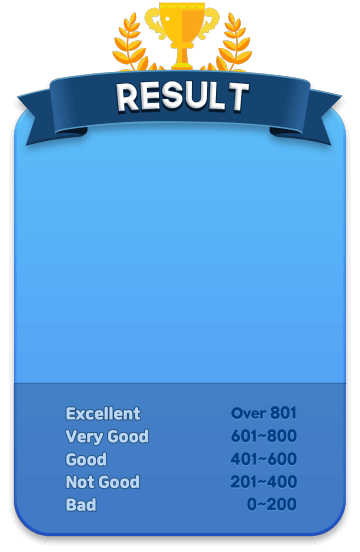
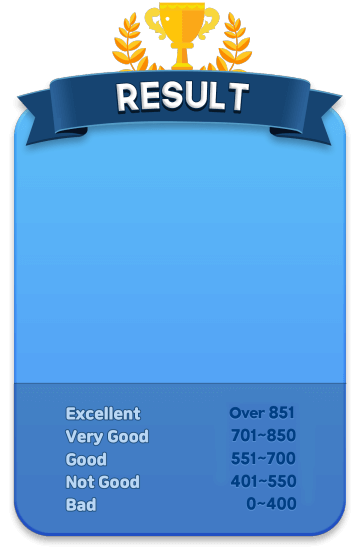
게임 결과 점수체계 수정한다
#BRAIN-42

Changed region(s): [[0.6417, 0.7391, 0.825, 0.9239]]

diff --git a/src/app/com/omnicns/omnifit/game/five-fan/obj/game/ResultPopup.ts b/src/app/com/omnicns/omnifit/game/five-fan/obj/game/ResultPopup.ts
@@ -8,6 +8,7 @@ import {AWResourceManager} from '../../AWResourceManager';
 import {AWStageManager} from '../../AWStageManager';
 import {AWStage} from '../../stage/AWStage';
 import {AWObj} from '../AWObj';
+import {Info} from '../../info/Info';
 
 export interface UserResult {
   uuid: string;
@@ -109,20 +110,24 @@ export class ResultPopup extends AWObj {
     }
     context.drawImage(medalImg, popup_x + 158, popup_y + 224);
 
+    // VeryGood = 850
+    // Good = 700
+    // NotGood = 550
+    // Bad = 400
     // 점수에 따라 멘트와 등급 표시
-    if (localSum >= 0 && localSum <= 200) {
+    if (localSum >= 0 && localSum <= Info.BAD) {
       context.drawImage(this.ic_scoretext_badImg, popup_x + 40, popup_y + 265);
       context.drawImage(this.ic_scoretext_badge_02_2Img, popup_x + 25, popup_y + 486);
-    } else if (localSum >= 201 && localSum <= 400) {
+    } else if (localSum > Info.BAD && localSum <= Info.NOT_GOOD) {
       context.drawImage(this.ic_scoretext_notgoodImg, popup_x + 40, popup_y + 265);
       context.drawImage(this.ic_scoretext_badge_02_2Img, popup_x + 25, popup_y + 462);
-    } else if (localSum >= 401 && localSum <= 600) {
+    } else if (localSum > Info.NOT_GOOD && localSum <= Info.GOOD) {
       context.drawImage(this.ic_scoretext_goodImg, popup_x + 40, popup_y + 265);
       context.drawImage(this.ic_scoretext_badge_02_1Img, popup_x + 25, popup_y + 439);
-    } else if (localSum >= 601 && localSum <= 800) {
+    } else if (localSum > Info.GOOD && localSum <= Info.VERY_GOOD) {
       context.drawImage(this.ic_scoretext_verygoodImg, popup_x + 40, popup_y + 265);
       context.drawImage(this.ic_scoretext_badge_02_1Img, popup_x + 25, popup_y + 416);
-    } else if (localSum >= 801) {
+    } else if (localSum > Info.VERY_GOOD) {
       context.drawImage(this.ic_scoretext_excellentImg, popup_x + 40, popup_y + 265);
       context.drawImage(this.ic_scoretext_badge_02_1Img, popup_x + 25, popup_y + 393);
     }

diff --git a/src/app/com/omnicns/omnifit/game/five-fan/info/Info.ts b/src/app/com/omnicns/omnifit/game/five-fan/info/Info.ts
@@ -1,14 +1,17 @@
 export class Info {
-    // static readonly FINISH_CNT = 2;
-    // static readonly START_CNT = 1;
-    // static readonly END_CNT = 1;
-    static readonly START_CNT = 3;
-    static readonly END_CNT = 180;
-    // static readonly END_CNT = 15;
-    static readonly STEP_UNIT = 1000;
-    static readonly DISPLAY_TRACK_WIDTH_UNIT = 15; //트랙 보여줄 m
-    static readonly DISPLAY_TRACK_FLAG_UNIT = 10; //트랙 보여줄 m
-    static readonly FINISH_TRACK_UNIT = 2000; // finish m
-    // static readonly FINISH_TRACK_UNIT = 30; // finish m
-
+  // static readonly FINISH_CNT = 2;
+  // static readonly START_CNT = 1;
+  // static readonly END_CNT = 1;
+  static readonly START_CNT = 3;
+  static readonly END_CNT = 180;
+  // static readonly END_CNT = 15;
+  static readonly STEP_UNIT = 1000;
+  static readonly DISPLAY_TRACK_WIDTH_UNIT = 15; //트랙 보여줄 m
+  static readonly DISPLAY_TRACK_FLAG_UNIT = 10; //트랙 보여줄 m
+  static readonly FINISH_TRACK_UNIT = 2000; // finish m
+  // static readonly FINISH_TRACK_UNIT = 30; // finish m
+  static readonly VERY_GOOD = 850;
+  static readonly GOOD = 700;
+  static readonly NOT_GOOD = 550;
+  static readonly BAD = 400;
 }
